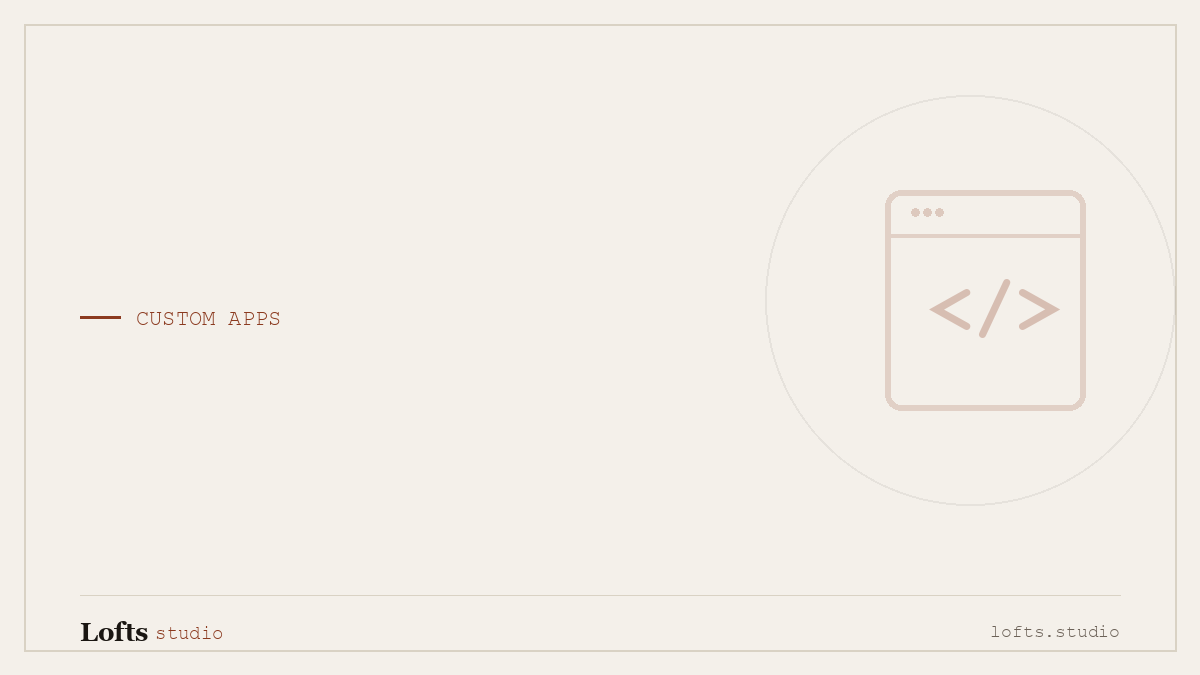
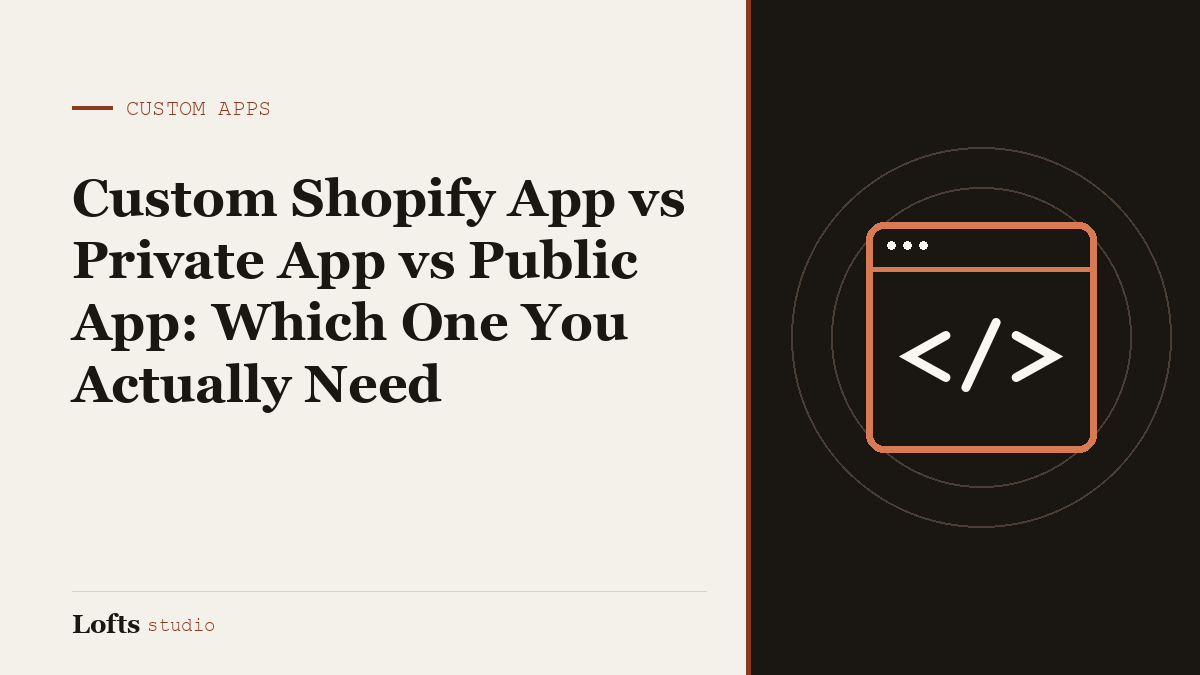
Blog covers: bold two-tone editorial design
Previous motif-only covers were nearly-blank cream boxes. Redesigned as
editorial covers: cream left column with category kicker + auto-sized
serif title + wordmark, dark accent panel on the right with a bold,
centred topic motif (AI network, speed gauge, SEO magnifier, shopping
bag, code window, migration panels). Title auto-fits to the column so it
never overflows.

diff --git a/scripts/generate_blog_covers.py b/scripts/generate_blog_covers.py
@@ -56,69 +56,68 @@ def rgba(c, a):
     return (c[0], c[1], c[2], a)
 
 
-def draw_motif(ov, key):
-    """Draw a large, low-opacity geometric motif on the right side (RGBA overlay)."""
-    d = ImageDraw.Draw(ov)
-    cx, cy = 970, 300          # motif centre, upper-right
-    A   = rgba(ACCENT, 38)
-    AS  = rgba(ACCENT, 22)
-    LN  = rgba(ACCENT, 60)
-    INKL = rgba(INK, 16)
+CREAM_LT = (250, 247, 241)      # lighter cream for motif strokes on dark panel
+ACCENT_LT = (216, 123, 85)      # warm accent that reads on the dark panel
+
+
+def draw_motif(d, key, cx, cy):
+    """Draw a bold, centred geometric motif on the dark right panel.
+    Colours are bright (accent + cream) so they read on ink."""
+    import math
+    A  = ACCENT_LT
+    C  = CREAM_LT
+    DIM = (74, 62, 52)          # faint warm-grey for depth rings
+
+    # depth rings behind everything
+    for r in (190, 150):
+        d.ellipse([cx-r, cy-r, cx+r, cy+r], outline=DIM, width=2)
 
     if key == "ai":
-        # Neural / agent network: nodes connected by thin lines
-        nodes = [(880,150),(1010,120),(1090,250),(960,300),(1040,400),(870,330),(1110,160)]
+        nodes = [(cx-70,cy-90),(cx+60,cy-110),(cx+105,cy+10),(cx-10,cy+30),
+                 (cx+70,cy+115),(cx-95,cy+70),(cx+120,cy-70)]
         for i,(x,y) in enumerate(nodes):
             for x2,y2 in nodes[i+1:]:
                 if abs(x-x2)+abs(y-y2) < 230:
-                    d.line([(x,y),(x2,y2)], fill=LN, width=2)
+                    d.line([(x,y),(x2,y2)], fill=DIM, width=2)
         for x,y in nodes:
-            r = 16
-            d.ellipse([x-r,y-r,x+r,y+r], fill=rgba(ACCENT,55))
-            d.ellipse([x-r-7,y-r-7,x+r+7,y+r+7], outline=AS, width=2)
+            d.ellipse([x-15,y-15,x+15,y+15], fill=A)
+            d.ellipse([x-22,y-22,x+22,y+22], outline=C, width=2)
     elif key == "seo":
-        # Magnifier over rising bars
-        for i,bh in enumerate([60,110,160,220]):
-            x = 880 + i*52
-            d.rounded_rectangle([x, 360-bh, x+34, 360], radius=6, fill=rgba(ACCENT,28))
-        r = 92
-        d.ellipse([cx-r,cy-r,cx+r,cy+r], outline=rgba(ACCENT,70), width=10)
-        d.line([(cx+r*0.7,cy+r*0.7),(cx+r*1.5,cy+r*1.5)], fill=rgba(ACCENT,70), width=12)
+        for i,bh in enumerate([70,120,175,235]):
+            x = cx-110 + i*56
+            d.rounded_rectangle([x, cy+80-bh, x+38, cy+80], radius=7, fill=DIM)
+        r = 96
+        mx, my = cx+10, cy-10
+        d.ellipse([mx-r,my-r,mx+r,my+r], outline=A, width=11)
+        d.line([(mx+r*0.7,my+r*0.7),(mx+r*1.5,my+r*1.5)], fill=A, width=13)
     elif key == "speed":
-        # Speed gauge arc + needle
-        bbox = [cx-120,cy-120,cx+120,cy+120]
-        d.arc(bbox, start=140, end=400, fill=rgba(ACCENT,30), width=18)
-        d.arc(bbox, start=140, end=250, fill=rgba(ACCENT,75), width=18)
-        import math
-        ang = math.radians(250)
-        d.line([(cx,cy),(cx+95*math.cos(ang),cy+95*math.sin(ang))], fill=rgba(ACCENT,80), width=8)
-        d.ellipse([cx-12,cy-12,cx+12,cy+12], fill=rgba(ACCENT,80))
+        bbox = [cx-130,cy-130,cx+130,cy+130]
+        d.arc(bbox, start=140, end=400, fill=DIM, width=20)
+        d.arc(bbox, start=140, end=255, fill=A, width=20)
+        ang = math.radians(255)
+        d.line([(cx,cy),(cx+105*math.cos(ang),cy+105*math.sin(ang))], fill=C, width=9)
+        d.ellipse([cx-14,cy-14,cx+14,cy+14], fill=A)
     elif key in ("shopify","woo"):
-        # Shopping bag outline
-        x0,y0,x1,y1 = 875, 215, 1075, 415
-        d.rounded_rectangle([x0,y0,x1,y1], radius=18, outline=rgba(ACCENT,65), width=8)
-        d.arc([x0+55,y0-55,x1-55,y0+55], start=180, end=360, fill=rgba(ACCENT,65), width=8)
-        d.line([(x0+45,y0+5),(x0+45,y0-5)], fill=rgba(ACCENT,65), width=8)
-        d.ellipse([cx-6,cy+5,cx+6,cy+17], fill=rgba(ACCENT,55))
+        x0,y0,x1,y1 = cx-105, cy-80, cx+105, cy+120
+        d.rounded_rectangle([x0,y0,x1,y1], radius=20, outline=A, width=9)
+        d.arc([x0+58,y0-58,x1-58,y0+58], start=180, end=360, fill=A, width=9)
+        d.ellipse([cx-7,cy+8,cx+7,cy+22], fill=C)
     elif key == "apps":
-        # Code brackets + window
-        d.rounded_rectangle([885,190,1085,410], radius=16, outline=rgba(ACCENT,45), width=6)
-        d.line([(885,235),(1085,235)], fill=rgba(ACCENT,45), width=4)
-        for cxp in (915,927,939):
-            d.ellipse([cxp-4,208,cxp+4,216], fill=rgba(ACCENT,55))
-        d.text((930,270), "</>", font=font(MONO_BOLD,72), fill=rgba(ACCENT,70))
+        d.rounded_rectangle([cx-115,cy-115,cx+115,cy+115], radius=18, outline=A, width=7)
+        d.line([(cx-115,cy-68),(cx+115,cy-68)], fill=A, width=5)
+        for i,xp in enumerate((-90,-74,-58)):
+            d.ellipse([cx+xp-4,cy-96,cx+xp+4,cy-88], fill=C)
+        bf = font(MONO_BOLD, 90)
+        tw = d.textlength("</>", font=bf)
+        d.text((cx-tw/2, cy-30), "</>", font=bf, fill=C)
     elif key == "migration":
-        # Two offset panels + arrow
-        d.rounded_rectangle([860,210,1000,360], radius=14, outline=rgba(ACCENT,40), width=6)
-        d.rounded_rectangle([965,250,1105,400], radius=14, fill=rgba(ACCENT,18), outline=rgba(ACCENT,55), width=6)
-        d.line([(940,300),(1010,300)], fill=rgba(ACCENT,75), width=8)
-        d.polygon([(1005,288),(1030,300),(1005,312)], fill=rgba(ACCENT,75))
+        d.rounded_rectangle([cx-130,cy-90,cx-10,cy+60], radius=16, outline=A, width=7)
+        d.rounded_rectangle([cx+10,cy-40,cx+130,cy+110], radius=16, fill=(58,39,27), outline=A, width=7)
+        d.line([(cx-30,cy+10),(cx+40,cy+10)], fill=C, width=9)
+        d.polygon([(cx+30,cy-4),(cx+58,cy+10),(cx+30,cy+24)], fill=C)
     else:
-        for i,r in enumerate((40,80,120,160)):
-            d.ellipse([cx-r,cy-r,cx+r,cy+r], outline=rgba(ACCENT, 60-i*10), width=4)
-
-    # faint large ink ring behind, for depth
-    d.ellipse([cx-205,cy-205,cx+205,cy+205], outline=INKL, width=2)
+        for i,r in enumerate((50,95,140)):
+            d.ellipse([cx-r,cy-r,cx+r,cy+r], outline=A if i==1 else DIM, width=5)
 
 
 def wrap_title(draw, text, fnt, max_w):
@@ -136,53 +135,54 @@ def wrap_title(draw, text, fnt, max_w):
 
 def fit_title(draw, text, max_w, max_lines):
     """Pick the largest serif size whose wrapped title fits within max_lines."""
-    for size in range(74, 40, -2):
+    for size in range(52, 30, -2):
         fnt = font(SERIF, size)
         lines = wrap_title(draw, text, fnt, max_w)
         if len(lines) <= max_lines:
             return fnt, lines, size
-    fnt = font(SERIF, 42)
-    return fnt, wrap_title(draw, text, fnt, max_w)[:max_lines], 42
+    fnt = font(SERIF, 30)
+    return fnt, wrap_title(draw, text, fnt, max_w)[:max_lines], 30
 
 
 def render(post):
     slug, title, cat = post["slug"], post["title"], post["category"]
     key = cat_key(cat)
 
+    PANEL_X = 750                # x where the dark panel begins
+
     img = Image.new("RGB", (W, H), CREAM)
     d = ImageDraw.Draw(img)
 
-    # subtle paper panel + frame
-    d.rectangle([0, 0, W, H], fill=CREAM)
-    d.rectangle([24, 24, W-24, H-24], outline=LINE, width=2)
+    # dark accent panel on the right
+    d.rectangle([PANEL_X, 0, W, H], fill=INK)
+    # thin accent seam between cream + panel
+    d.rectangle([PANEL_X-4, 0, PANEL_X, H], fill=ACCENT)
 
-    # motif (separate RGBA overlay so it sits softly under text)
-    ov = Image.new("RGBA", (W, H), (0, 0, 0, 0))
-    draw_motif(ov, key)
-    img = Image.alpha_composite(img.convert("RGBA"), ov).convert("RGB")
-    d = ImageDraw.Draw(img)
+    # bold centred motif on the panel
+    draw_motif(d, key, cx=(PANEL_X + W)//2 + 6, cy=H//2)
 
-    MX = 80                      # left margin for text
+    MX = 72                      # left text margin (cream side)
 
-    # category kicker: accent rule + label (mono, upper) — centred vertically
-    kick_y = H // 2 - 20
-    d.line([(MX, kick_y), (MX+40, kick_y)], fill=ACCENT, width=3)
-    d.text((MX+56, kick_y - 11), cat.upper(), font=font(MONO, 22), fill=ACCENT)
+    # kicker: accent rule + category (mono, upper)
+    ky = 96
+    d.line([(MX, ky+11), (MX+40, ky+11)], fill=ACCENT, width=4)
+    d.text((MX+54, ky), cat.upper(), font=font(MONO, 22), fill=ACCENT)
 
-    # footer rule
-    fy = H - 80
-    d.line([(MX, fy), (W-MX, fy)], fill=LINE, width=1)
+    # title (serif, ink), wrapped & auto-sized to the cream column
+    col_w = PANEL_X - MX - 44
+    fnt, lines, size = fit_title(d, title, max_w=col_w, max_lines=4)
+    lh = int(size * 1.2)
+    ty = 168
+    for ln in lines:
+        d.text((MX, ty), ln, font=fnt, fill=INK)
+        ty += lh
 
     # wordmark bottom-left
-    wm_y = H - 58
+    wm_y = H - 66
+    d.line([(MX, wm_y-18), (MX+col_w, wm_y-18)], fill=LINE, width=1)
     d.text((MX, wm_y), "Lofts", font=font(SERIF, 26), fill=INK)
     lw = d.textlength("Lofts", font=font(SERIF, 26))
     d.text((MX+lw+7, wm_y+6), "studio", font=font(MONO, 19), fill=ACCENT)
-
-    # bottom-right: domain (mono, muted)
-    url = "lofts.studio"
-    uw = d.textlength(url, font=font(MONO, 18))
-    d.text((W-MX-uw, wm_y+5), url, font=font(MONO, 18), fill=MUTED)
 
     OUT_DIR.mkdir(parents=True, exist_ok=True)
     out = OUT_DIR / f"{slug}.png"
